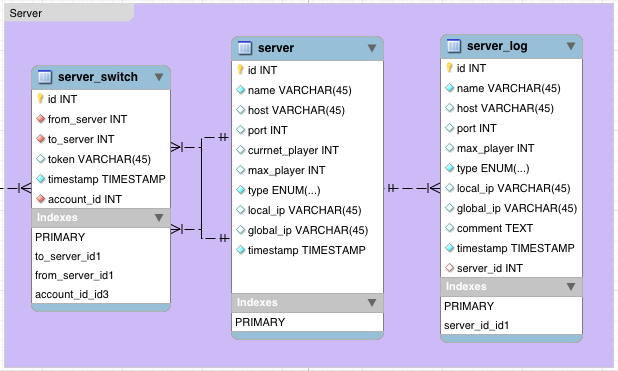
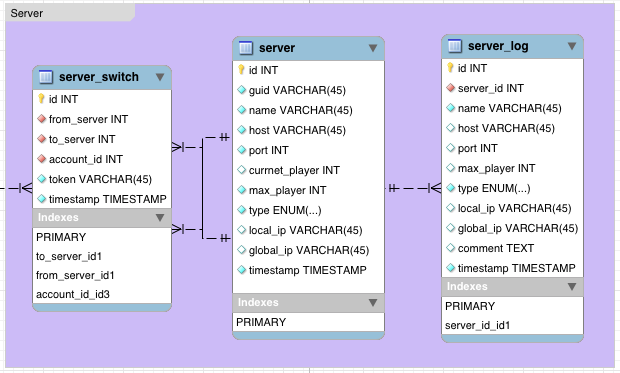
Server config fix

Changed region(s): [[0.0, 0.0, 1.0, 1.0], [0.6149, 0.8598, 0.6456, 0.8895], [0.246, 0.2372, 0.2767, 0.2668]]

diff --git a/PurpleScripts/Entities/Network/Server/PurpleNetworkServerConfig.cs b/PurpleScripts/Entities/Network/Server/PurpleNetworkServerConfig.cs
@@ -1,16 +1,21 @@
 using System;
 using PurpleNetwork;
+using PurpleDatabase;
+using PurpleDatabase.Extension;
+using Entities.Database;
 
 namespace Entities.PurpleNetwork.Server
 {
 	public class ServerConfig
 	{
 		public const string 	CONFIG_FILE_PREFIX 	= "Entities.PurpleNetwork.Server.ServerConfig";
+		public const string 	SERVER_TABLE 	= "server";
 
 		public ServerTypes 	ServerType;
 		protected Guid 		_guid;
-			
-		public string ServerID
+
+		public int 			ServerID;
+		public string 		ServerGUID
 		{
 			get
 			{
@@ -48,10 +53,16 @@ namespace Entities.PurpleNetwork.Server
 
 		public bool			ConfigLoaded;
 
+		private PurpleServer serverReference;
+
 		// CONSTRUCTOR
 		public ServerConfig ()
 		{
-			Reset ();
+			Load ();
+			if(!ConfigLoaded)
+			{
+				Reset ();
+			}
 		}
 
 		public void SetType(string serverType)
@@ -64,11 +75,11 @@ namespace Entities.PurpleNetwork.Server
 			ServerType = serverType;
 		}
 
-
 		public void Reset ()
 		{
 			ServerType 		= parse_server_type (PurpleConfig.Network.Server.Type);
 			_guid 			= Guid.NewGuid ();
+			ServerID 		= -1;
 
 			ServerHost 		= PurpleConfig.Network.Server.Host;
 			ServerName 		= PurpleConfig.Network.Server.Name;
@@ -92,6 +103,15 @@ namespace Entities.PurpleNetwork.Server
 			DatabasePort 	= PurpleConfig.Database.Port;
 			DatabaseUser 	= PurpleConfig.Database.User;
 			DatabasePassword= PurpleConfig.Database.Password;
+
+			ConfigLoaded = false;
+
+			get_server_reference ();
+			if(serverReference == null)
+			{
+				create_server_reference ();
+				get_server_reference ();
+			}
 		}
 
 		public void Save()
@@ -102,6 +122,20 @@ namespace Entities.PurpleNetwork.Server
 		public void Save(string Name)
 		{
 			string suffix = (!string.IsNullOrEmpty (Name)) ? "." + Name : string.Empty;
+			if(ServerID <= 0)
+			{
+				get_server_reference ();
+				if(serverReference == null)
+				{
+					create_server_reference ();
+					get_server_reference ();
+				}
+				ServerID = serverReference.id;
+			}
+			else
+			{
+				update_server_reference ();
+			}
 			PurpleStorage.PurpleStorage.Save(CONFIG_FILE_PREFIX+suffix, this);
 		}
 
@@ -117,21 +151,36 @@ namespace Entities.PurpleNetwork.Server
 			string suffix = (!string.IsNullOrEmpty (Name)) ? "." + Name : string.Empty;
 			ServerConfig config
 				= PurpleStorage.PurpleStorage.Load<ServerConfig> (CONFIG_FILE_PREFIX+suffix);
-			if (config == null || config.ServerID == Guid.Empty.ToString ())
+			if (config == null || config.ServerGUID == Guid.Empty.ToString ())
 				return;
 			
-			this.ConfigLoaded = true;
-			/*
+			this.ConfigLoaded 		= true;
+			this.ServerType 		= config.ServerType;
+			this.ServerID 			= config.ServerID;
+			this.ServerGUID 		= config.ServerGUID;
+
 			this.ServerHost 		= config.ServerHost;
+			this.ServerName 		= config.ServerName;
 			this.ServerPort 		= config.ServerPort;
+
 			this.ServerPassword 	= config.ServerPassword;
-			this.ClientName 		= config.ClientName;
-			this.ClientPassword 	= config.ClientPassword;
-			this.ClientEmail 		= config.ClientEmail;
-			this.ClientToken 		= config.ClientToken;
-			this.ClientTokenCreated = config.ClientTokenCreated;
-			this.guid 				= config.guid;
-			*/
+			this.ServerMaxClients 	= config.ServerMaxClients;
+			this.ServerAllowMonitoring = config.ServerAllowMonitoring;
+
+			this.SanityTest 		= config.SanityTest;
+			this.SanityAction 		= config.SanityAction;
+			this.SanityPeriodical	= config.SanityPeriodical;
+
+			this.ClientAuthentificationTimeout = config.ClientAuthentificationTimeout;
+
+			this.SpamPrevention 	= config.SpamPrevention;
+			this.SpamResponse 		= config.SpamResponse;
+
+			this.DatabaseHost 		= config.DatabaseHost;
+			this.DatabaseName 		= config.DatabaseName;
+			this.DatabasePort 		= config.DatabasePort;
+			this.DatabaseUser 		= config.DatabaseUser;
+			this.DatabasePassword 	= config.DatabasePassword;
 		}
 
 		public void Delete()
@@ -150,6 +199,46 @@ namespace Entities.PurpleNetwork.Server
 		private ServerTypes parse_server_type(string serverType)
 		{
 			return (ServerTypes) Enum.Parse(typeof(ServerTypes), serverType, true);
+		}
+
+
+		private void get_server_reference()
+		{
+			get_server_reference (ServerGUID);
+		}
+
+		private void get_server_reference(string guid)
+		{
+			serverReference = SQLGenerator.New ().Select ("*").From(SERVER_TABLE)
+				.Where ("guid="+guid).FetchSingle ().ToObject<PurpleServer> ();
+			ServerID = serverReference.id;
+		}
+
+		private bool create_server_reference()
+		{			
+			update_server_reference_helper ();
+
+			int result = serverReference.ToSQLInsert ().Execute ();
+			return (result==1) ? true : false;
+		}
+
+		private bool update_server_reference()
+		{
+			get_server_reference ();
+			update_server_reference_helper ();
+
+			int result = serverReference.ToSQLUpdate ().Execute ();
+			return (result==1) ? true : false;
+		}
+
+		private void update_server_reference_helper()
+		{
+			serverReference.guid = ServerGUID;
+			serverReference.host = ServerHost;
+			serverReference.max_player = ServerMaxClients;
+			serverReference.name = ServerName;
+			serverReference.port = ServerPort;
+			serverReference.type = ServerType.ToString ();
 		}
 	}
 }

diff --git a/PurpleScripts/Network/Server/PurpleNetworkServerSanityTester.cs b/PurpleScripts/Network/Server/PurpleNetworkServerSanityTester.cs
@@ -483,6 +483,7 @@ namespace PurpleNetwork
 			psl.type = PNS.CurrentConfig.ServerType.ToString();
 			psl.local_ip = ip;
 			psl.global_ip = externalIp;
+			psl.server_id = PNS.CurrentConfig.ServerID;
 
 			int insertResult = psl.ToSQLInsert ().Execute ();
 			if (insertResult == 1 && PurpleDatabase.PurpleDatabase.LastInsertedId() > 0)

diff --git a/PurpleScripts/Entities/Network/Client/PurpleNetworkClientConfig.cs b/PurpleScripts/Entities/Network/Client/PurpleNetworkClientConfig.cs
@@ -11,10 +11,9 @@ namespace Entities.PurpleNetwork.Client
 		public string 		ServerPassword;
 
 		public string 		ServerSwitchToken;
+		protected Guid 		_guid;
 
-		protected Guid _guid;
-
-		public string guid
+		public string 		guid
 		{
 			get
 			{

diff --git a/PurpleScripts/Entities/Database/PurpleServer.cs b/PurpleScripts/Entities/Database/PurpleServer.cs
@@ -8,6 +8,9 @@ namespace Entities.Database
 		public int id { get; set; }
 
 		[Required]
+		public string guid { get; set; }
+
+		[Required]
 		public string name { get; set; }
 
 		[Required]
